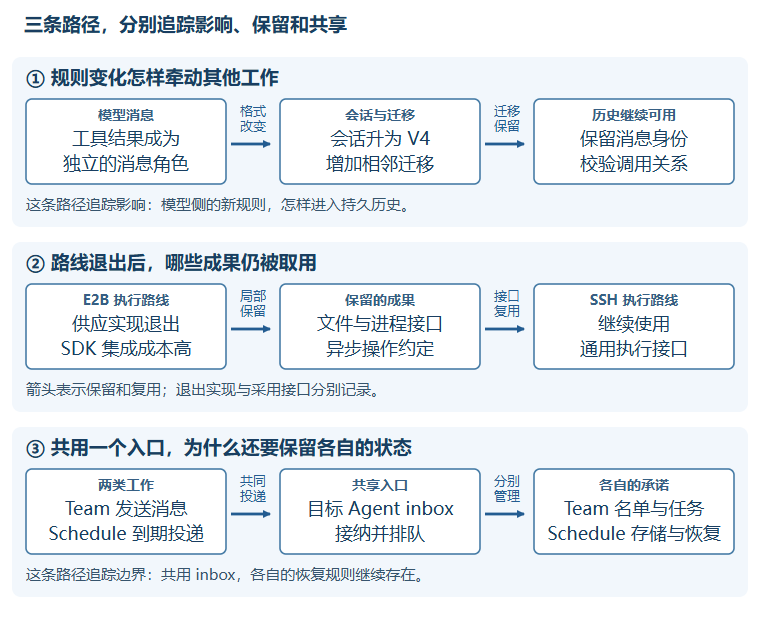
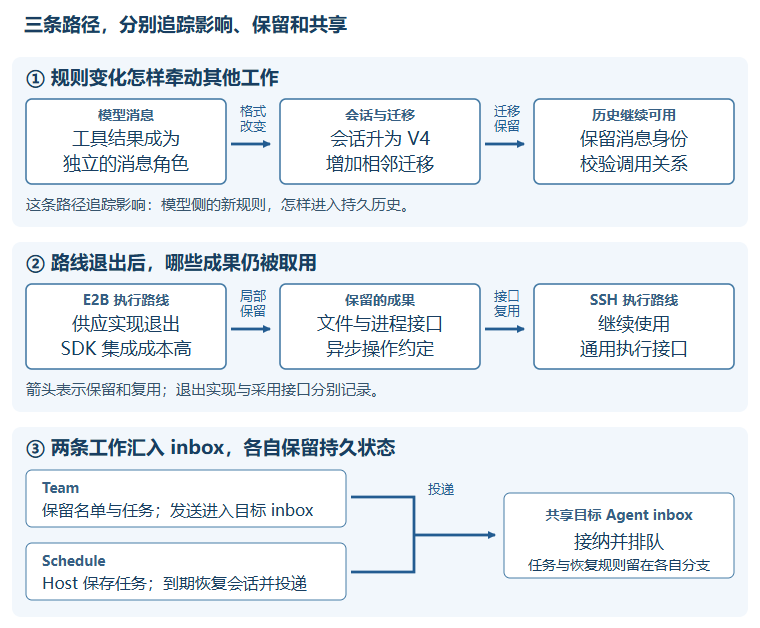
修正DSH全景关系图与结论推导，记录文档防复发检查

Changed region(s): [[0.0303, 0.6959, 0.9684, 0.9682]]

diff --git a/docs/research/change-graph-task-state/dsh-work-history.md b/docs/research/change-graph-task-state/dsh-work-history.md
@@ -2,7 +2,7 @@
 title: DSH 工程全景：主要方向、演化与接续
 status: active
 created: 2026-10-19
-updated: 2026-10-20
+updated: 2026-10-21
 tags: [dsh, work-history, truth]
 ---
 
@@ -11,6 +11,16 @@ tags: [dsh, work-history, truth]
 我们整理 DSH，是为了研究：复杂开发反复换方案、复用旧成果、修改判断时，少量基本操作怎样把工作保存清楚。**我目前的判断是，机制首先需要保住每次变化的边界：影响了谁、保留了什么、依据哪个版本，以及现在采用什么。**这篇报告先展示工程全局，再沿真实连接说明这个判断从哪里来。
 
 本文整理截至 **2026 年 10 月 15 日**的公开可达记录。开发历史从 6 月可见；8 月的记录已有开发者预览入口。准确转为公开仓库的时刻仍未知。[版本时间线](dsh-project-history.md#起点开源时已经是一个生长过的系统)保留日期依据。
+
+## 先看八个方向怎样接起来
+
+DSH 的工作在几处公共接口和状态上相遇。先看图中三条横向连接：预设影响子代理能用什么，模型消息规则要求会话格式跟着变，远程文件需要工作台提供可读取的入口。再沿两侧看自动化：Goal 保存在会话日志里，Schedule 到期后向协作所用的目标 inbox 投递。右下角的 Office 引擎交付，则支撑右侧工作台的预览能力。
+
+![DSH 八方向关系总图](figures/dsh-direction-overview.png)
+
+[放大总图](figures/dsh-direction-overview.svg)。图中的连接分别可查[预设与子代理](dsh-process-truth-v1.md#t02)、[消息与迁移](dsh-process-truth-v1.md#t16)、[远程文件与工作台](dsh-development-analysis.md#6-工作台和远程执行把隐含问题变成了用户实际遇到的问题)、[Goal](dsh-process-truth-v1.md#t10)、[Schedule](dsh-process-truth-v1.md#t06)和[Office 交付](dsh-process-truth-v1.md#t15)。节点位置按阅读需要安排，版本时间另见[时间线](dsh-project-history.md)。
+
+从这些连接可以看出，一项局部修改会留下跨方向的后续工作：调整预设，需要检查子代理；改消息格式，需要迁移历史；改变运行环境，需要处理文件读取和预览。记录开发过程时，既要能找到每条工作的历史，也要能沿这些连接检查受影响的工作。下面的表补齐各方向的发展，再选三种连接详细看其变化范围。
 
 ## 八个方向怎样发展
 
@@ -71,12 +81,18 @@ tags: [dsh, work-history, truth]
 
 ## 这一轮把我们带到哪里，我建议怎样继续
 
-[三种表示比较](dsh-representation-comparison-v1.md)表明，认真维护的普通文档、三个语义操作和统一事务登记，都能保留本轮输入。工作目录可以从历史记录重建，来源可以内嵌为精确引用，select 也能写成有版本前提的事件。这支持把 derive、relate、select 继续作为表达工作变化的便利接口，其下共用登记机制。
+[三种表示比较](dsh-representation-comparison-v1.md)中，认真维护的普通文档、三个语义操作和统一事务登记都保存了同一批输入。这个结果让下一步的重点落在规则上：哪些信息和约束必须保留，才能让不同接口表达同一件工作？下面三项检查给出了具体线索。
 
-**我的推荐是保留三组件架构，以“版本化记录、带范围的精确引用、有依据的当前选用”为最小机制候选，下一轮集中检验它们必须保证哪些语义。**工作库保存记录，语义维护器提出解释和更新，视图生成器把这些内容组织给读者；新增判断仍需明确登记，避免不同视图各自形成一套当前结论。
+| 本轮检查 | 可以作出的判断 | 对设计的影响 |
+|---|---|---|
+| 去掉独立 select 接口，保留选择事件、版本前提和读回规则，仍得到相同当前选用 | 选择的含义可以由共同登记机制承担 | select 可作为上层便利接口；先定义怎样修订同一范围内的选择 |
+| 来源关系内嵌后仍可恢复；将跨记录端点换成笼统工作 ID 后，出现多个候选记录 | 精确指向成果和版本是必要约定，是否单独建关系对象可以另选 | 先明确引用的范围与修订办法，再决定关系对象的形态 |
+| 16 条跨记录联系用了 12 种名称 | 登记方式统一了，关系的含义和更新规则仍有整理空间 | 对照真实过程检查哪些关系共享规则，哪些必须保留差别 |
 
-这项推荐的依据是：上面三条路径的困难，都涉及变更边界、引用对象和当前判断。它们尚未显示出必须为“暂停”“部分撤回”“重新适配”各建一种专用操作的理由。我们可以先用共同操作组合这些功能，再检查是否出现无法自然表达的过程。
+**我的判断是，共同登记机制值得继续检验，下一步应优先收敛引用、修订和选用的规则。**例如，暂停一条路线通常保留成果和恢复入口；撤回一次实现可能只移除部分成果；新解释替代旧解释，还需要保留旧测量所针对的版本。这些动作能否由共同操作组合，要看规则能否准确保存这些差别。
 
-下一份设计应交付一版可以被反驳的语义契约：用已有过程说明系统保证什么、调用者要判断什么，以及哪些动作由组合完成。优先检验工作与子任务的身份、局部引用的修订、当前选用与实际结果的区别。若一个区别必须靠每次临时解释才能保住，就补规则；若两条规则总能互相替代，就尝试合并。
+下一份设计据此交付三组具体规则：工作和子任务怎样保持或分出身份；引用怎样限定成果范围并随修订变化；当前选用怎样更新，以及它与实施、验证结果怎样分别记录。每组规则都用底稿中的过程编码和读回，再删除或合并规则，指出实际丢失或产生歧义的信息。复杂判断由谁提供，也要一同写明，才能看清操作是否只是把负担藏进参数。
 
-这比继续压缩接口名称更能检验最小性。本轮还没有测量独立接手正确率或维护收益；普通文档能表达相同内容，意味着后续必须用更新、查证和接续的可靠性证明显式机制值得采用。来源中的工程测试和性能数字仍归属作者报告。
+三组件架构继续作为已有设计假设：工作库保存记录，语义维护器提出解释和更新，视图生成器组织内容。本轮比较检验了记录方式，其结果尚不足以确认这三个职责就是最优划分。
+
+普通文档同样保存了本轮输入，因此显式机制的价值还要通过更新、查证和接续的可靠性与成本来检验。本轮完成的是同作者离线走查；独立接手正确率和维护收益仍待后续验证。来源中的工程测试和性能数字归属作者报告。

diff --git a/docs/reference/project-asset-register.md b/docs/reference/project-asset-register.md
@@ -66,3 +66,5 @@ supersedes:
 
 
 2026-10-20 阅读修订：工程全景的方向关系图改为[三条路径图](../research/change-graph-task-state/figures/dsh-evolution-paths.svg)，PNG用于正文，SVG为可编辑图源。该图是基于底稿的讲解图，箭头分别表示影响、保留／复用和机制共享，不扩展来源事实。浏览器渲染与几何检查保存在主工作区 `artifacts/agent-task-state/maintenance/dsh-doc-readability-2026-10-20/`。
+
+2026-10-21：新增[八方向总图 SVG](../research/change-graph-task-state/figures/dsh-direction-overview.svg)及[显示版 PNG](../research/change-graph-task-state/figures/dsh-direction-overview.png)，来源为既有过程底稿与深度分析中的跨线连接；图按阅读分组，不表示版本顺序。三路径图的共享关系修正为分支汇聚。主文逐项提供证据入口，阅读效果待用户反馈。
